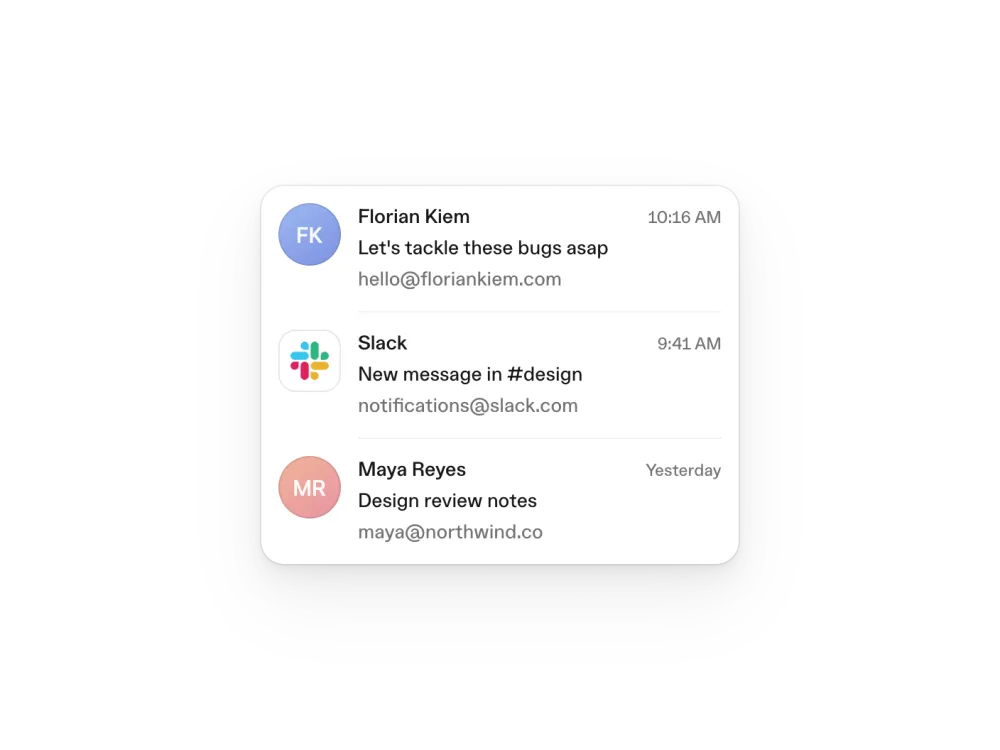
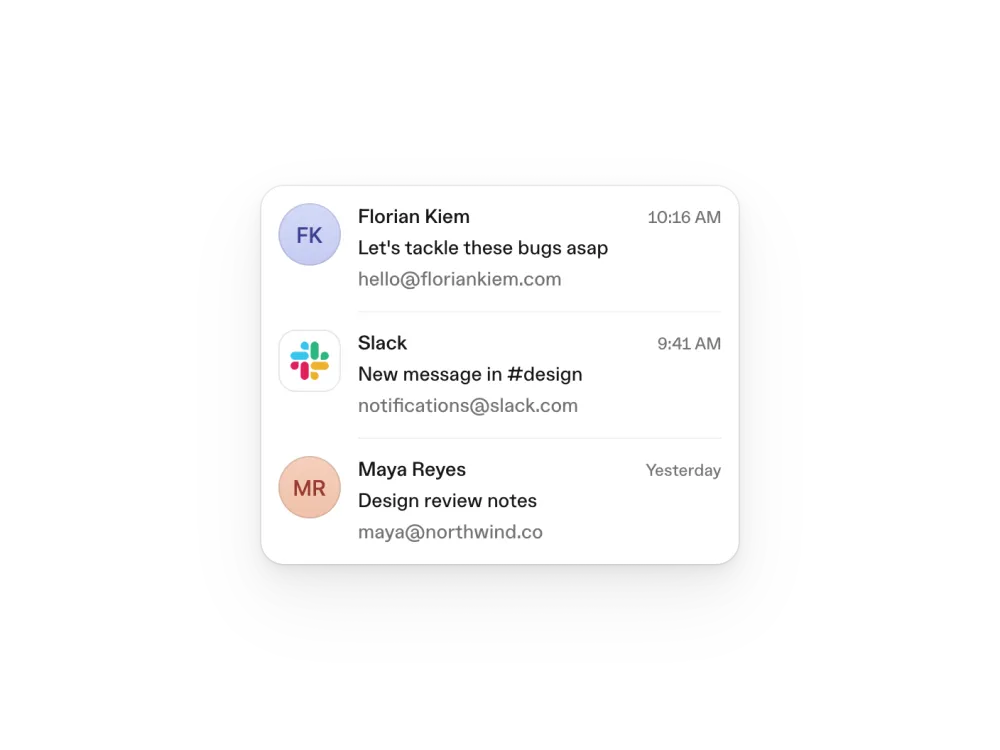
fix: demo

Changed region(s): [[0.279, 0.6133, 0.341, 0.7053], [0.279, 0.276, 0.341, 0.368]]

diff --git a/src/imageMap.gen.ts b/src/imageMap.gen.ts
@@ -202,10 +202,12 @@ export const imageManifest: Record<string, ImageManifestEntry> = {
     height: 938,
     thumbhash: "3oyGJQgs+Yd4iHVzp/h4h3IHCFiId3CDWA==",
   },
+  "/images/florian-mono.svg": { width: 100, height: 100, thumbhash: null },
   "/images/icons/favicon-dark.svg": { width: 16, height: 16, thumbhash: null },
   "/images/icons/favicon.svg": { width: 16, height: 16, thumbhash: null },
   "/images/institutions/hfg-logo.svg": { width: 620, height: 200, thumbhash: null },
   "/images/institutions/tudelft-logo.svg": { width: 600, height: 201, thumbhash: null },
+  "/images/maya-mono.svg": { width: 100, height: 100, thumbhash: null },
   "/images/misc/macos-cursor.svg": { width: 32, height: 32, thumbhash: null },
   "/images/misc/macos-pointer-cursor.svg": { width: 32, height: 33, thumbhash: null },
   "/images/og-background.png": {
@@ -222,6 +224,11 @@ export const imageManifest: Record<string, ImageManifestEntry> = {
     width: 595,
     height: 842,
     thumbhash: "JwgODQKm2FiYJ4j3eXtnmViPdvVK",
+  },
+  "/images/slack.png": {
+    width: 512,
+    height: 512,
+    thumbhash: "oviBDQQjiGa5BndHkIKAlweHCIeIh3B7hw==",
   },
   "/images/sona/bulk-delete.webp": {
     width: 1380,
